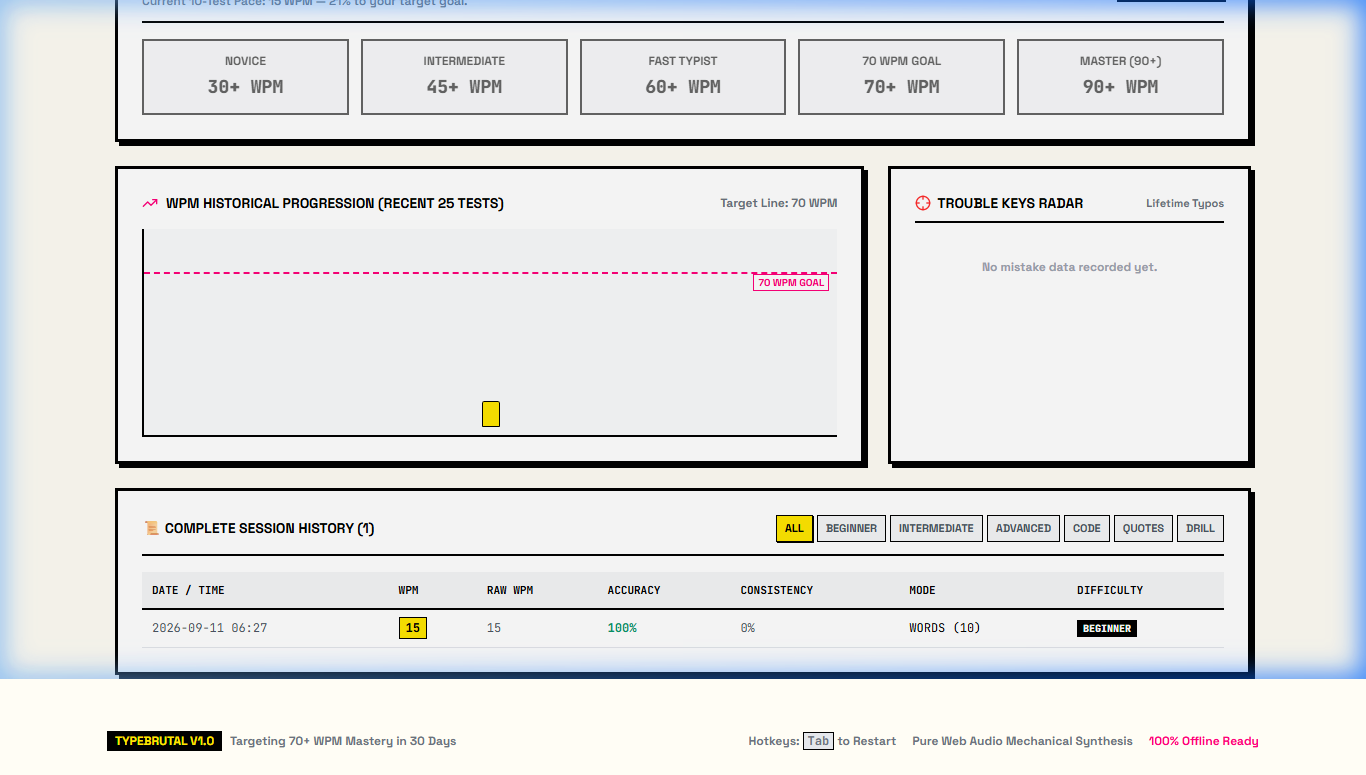
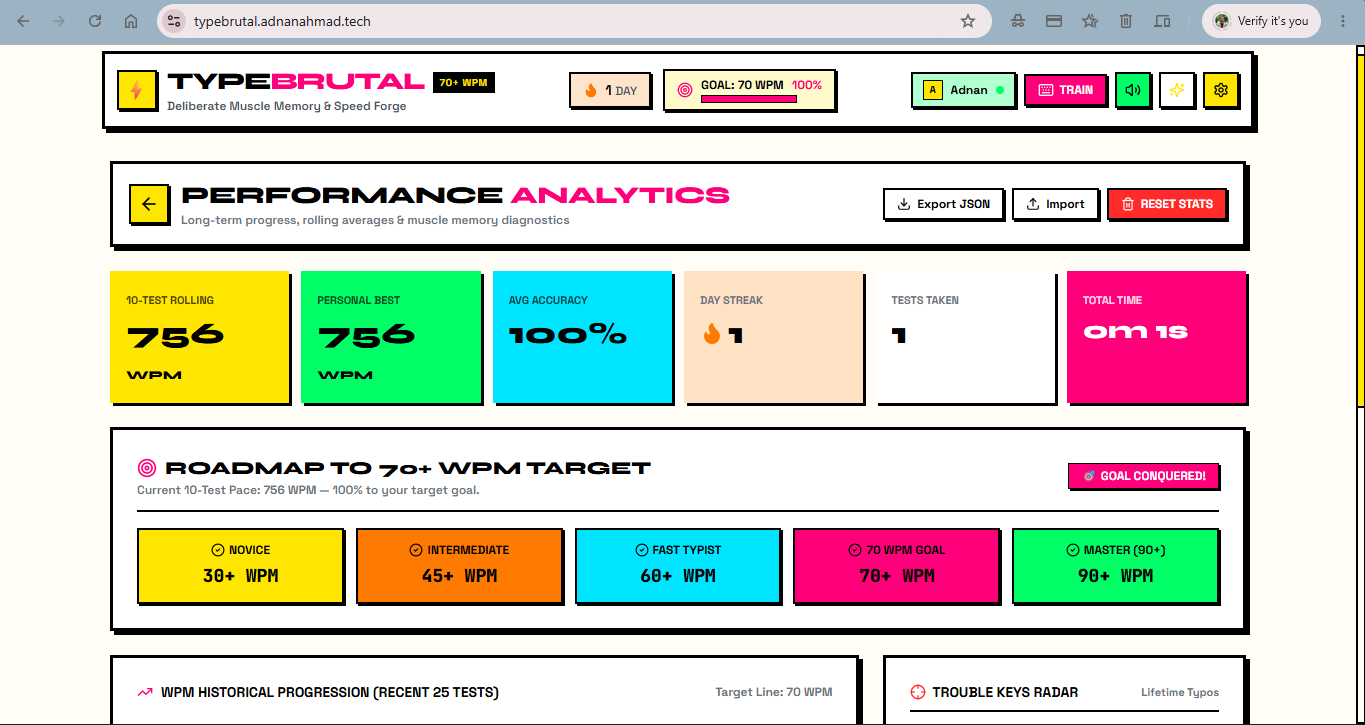
Fix: Enforce class-based dark mode & update screenshots and title

diff --git a/src/App.tsx b/src/App.tsx
@@ -75,9 +75,14 @@ export const App: React.FC = () => {
     return () => unsub();
   }, []);
 
-  // Sync theme with body class and apply sound settings
+  // Sync theme with body class, dark mode toggle on root html, and apply sound settings
   useEffect(() => {
     document.body.className = `theme-${settings.theme}`;
+    if (settings.theme === 'neo-dark' || settings.theme === 'matrix-acid') {
+      document.documentElement.classList.add('dark');
+    } else {
+      document.documentElement.classList.remove('dark');
+    }
     soundEngine.setProfile(settings.soundProfile);
     soundEngine.setVolume(settings.soundVolume);
   }, [settings.theme, settings.soundProfile, settings.soundVolume]);

diff --git a/tailwind.config.js b/tailwind.config.js
@@ -1,5 +1,6 @@
 /** @type {import('tailwindcss').Config} */
 export default {
+  darkMode: 'class',
   content: [
     "./index.html",
     "./src/**/*.{js,ts,jsx,tsx}",
